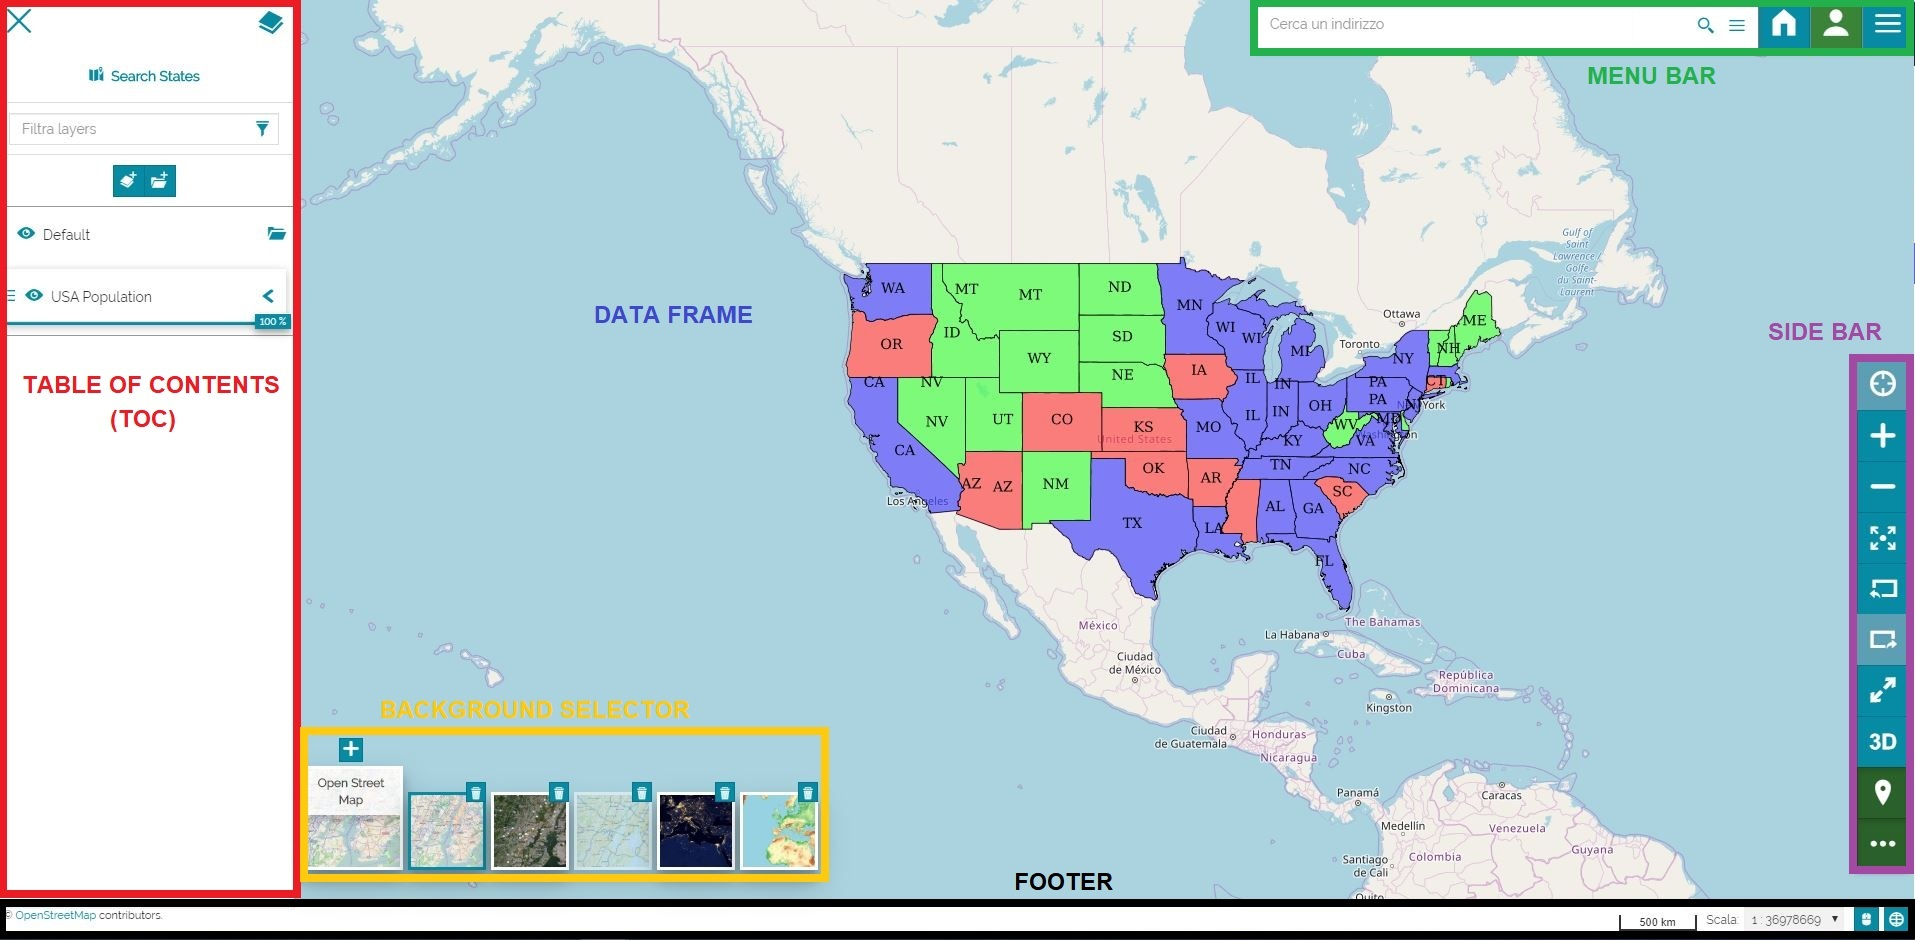
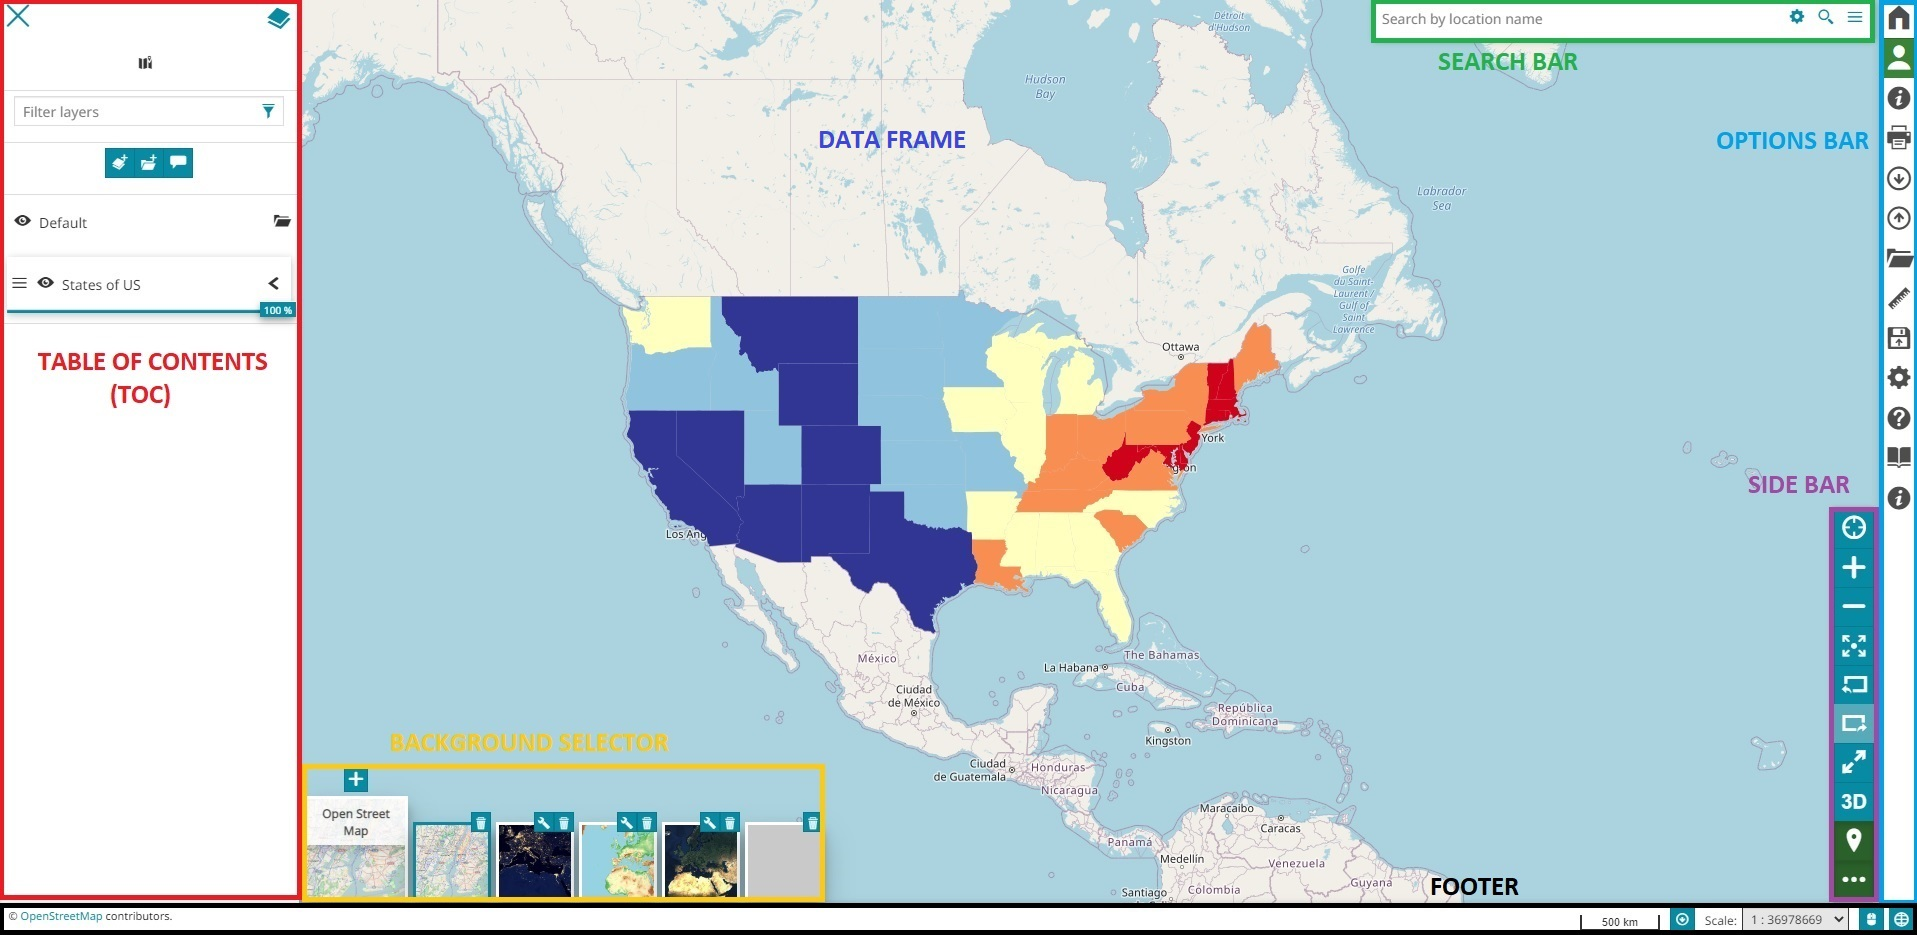
image-text-for-options-bar

diff --git a/docs/user-guide/side-bar.md b/docs/user-guide/side-bar.md
@@ -49,7 +49,7 @@ The tool is active by default (the button is green). Therefore if the user click
 
 <img src="../img/side-bar/identify-tool.jpg" class="ms-docimage"/>
 
-The layers information are reported in plain text by default. It is possible to change the format by selecting the <img src="../img/button/setting_button.jpg" class="ms-docbutton"/> option in [Burger Menu](menu-bar.md#burger-menu) where the user can select, through the *Identify response format* menu, three different formats like: **TEXT**, **HTML** and **PROPERTIES**.
+The layers information are reported in plain text by default. It is possible to change the format by selecting the <img src="../img/button/settings2.jpg" class="ms-docbutton"/> button in [Options Bar](menu-bar.md#options-bar) where the user can select, through the *Identify response format* menu, three different formats like: **TEXT**, **HTML** and **PROPERTIES**.
 
 <img src="../img/side-bar/format-options.jpg" class="ms-docimage" style="max-width:400px;"/>
 
@@ -112,7 +112,7 @@ In order to have information about one layer only the user can select the layer 
 
 In [MapStore](https://mapstore.geosolutionsgroup.com/mapstore/#/) the user can set the Identify tool in floating mode (**Floating Identify tool**) instead of having the default one available through a click on the map. In that case an identify popup will appears on the map as soon as the user hover over a layer in the map.
 
-In order to activate the *Floating Identify Tool* the user can select the <img src="../img/button/setting_button.jpg" class="ms-docbutton"/> option in [Burger Menu](menu-bar.md#burger-menu) <img src="../img/button/burger.jpg" class="ms-docbutton" />. Here he can select the **Hover** option through the *Trigger event for Identify* dropdown menu.
+In order to activate the *Floating Identify Tool* the user can select the  <img src="../img/button/settings2.jpg" class="ms-docbutton"/> button in [Options Bar](menu-bar.md#options-bar). Here he can select the **Hover** option through the *Trigger event for Identify* dropdown menu.
 
 <img src="../img/side-bar/setting-hover.jpg" class="ms-docimage"/>
 

diff --git a/docs/user-guide/import.md b/docs/user-guide/import.md
@@ -1,7 +1,7 @@
 # Import Files
 **************
 
-In [MapStore](https://mapstore.geosolutionsgroup.com/mapstore/#/) it is possible to add map context files or vector files to a map. This operation can be performed by clicking on the *Burger menu* button <img src="../img/button/burger.jpg" class="ms-docbutton"/> from the [Menu Bar](menu-bar.md) and by selecting the <img src="../img/button/import.jpg" class="ms-docbutton"/> option. Following these steps the import screen appears:
+In [MapStore](https://mapstore.geosolutionsgroup.com/mapstore/#/) it is possible to add map context files or vector files to a map. This operation can be performed by clicking  <img src="../img/button/import2.jpg" class="ms-docbutton"/> from the [Options Bar](menu-bar.md#options-bar). Following these steps the import screen appears:
 
 <img src="../img/import/import-screen.jpg" class="ms-docimage" style="max-width:700px;"/>
 
@@ -16,7 +16,7 @@ Here the user, in order to import a file, can drag and drop it inside the import
 
 ## Export and Import map context files
 
-A map context is, for example, the file that an user download selecting the <img src="../img/button/export.jpg" class="ms-docbutton"/> option in [Burger Menu](menu-bar.md#burger-menu). Map contexts can be exported in two different format:
+A map context is, for example, the file that an user download selecting the <img src="../img/button/export2.jpg" class="ms-docbutton"/> button from the [Options Bar](menu-bar.md#options-bar). Map contexts can be exported in two different format:
 
 * The <img src="../img/button/mapstore_format_button.jpg" class="ms-docbutton"/> file, is an export in `json` format of the current map context state: current projections, coordinates, zoom, extent, layers present in the map, widgets and more (additional information can be found in the [Maps Configuration](../developer-guide/maps-configuration.md) section of the [Developer Guide](https://mapstore.readthedocs.io/en/latest/developer-guide/)).
 

diff --git a/docs/user-guide/catalog.md b/docs/user-guide/catalog.md
@@ -3,7 +3,7 @@
 The Catalog Service for the Web (CSW) is an [OGC Standard](https://www.ogc.org/standards) used to publish and search geospatial data and related metadata on the internet. It describes geospatial services such as Web Map Service (WMS) and Web Map Tile Service (WMTS).
 
 In [MapStore](https://mapstore.geosolutionsgroup.com/mapstore/#/) the Catalog offers the possibility to access WMS, WFS, CSW, WMTS and TMS Remote Services and to add the related layers to the map. By default, as soon as a user opens the Catalog, a CSW a WMS and a WMTS Demo Services are available, allowing to import layers from the GeoSolutions GeoServer.
-The user can access the Catalog with a click on the <img src="../img/button/catalog-option.jpg" class="ms-docbutton" style="max-height:25px;" /> option present in [Burger Menu](menu-bar.md#burger-menu) <img src="../img/button/burger.jpg" class="ms-docbutton" />. As soon as you open it, the first display is like the following:
+The user can access the Catalog with a click on the <img src="../img/button/catalog2.jpg" class="ms-docbutton" style="max-height:25px;" /> button from the [Options Bar](menu-bar.md#options-bar). As soon as you open it, the first display is like the following:
 
 <img src="../img/catalog/catalog_panel.jpg" class="ms-docimage"  style="max-width:500px;" />
 

diff --git a/docs/user-guide/print.md b/docs/user-guide/print.md
@@ -1,6 +1,6 @@
 # Printing a Map
 
-In [MapStore](https://mapstore.geosolutionsgroup.com/mapstore/#/) it is possible to print a map by selecting the <img src="../img/button/print.jpg" class="ms-docbutton"  style="max-height:20px;"/> option from [Burger Menu](menu-bar.md#burger-menu). The print process is composed by two main steps:
+In [MapStore](https://mapstore.geosolutionsgroup.com/mapstore/#/) it is possible to print a map by selecting the **Print** <img src="../img/button/print2.jpg" class="ms-docbutton"  style="max-height:20px;"/> button from [Options Bar](menu-bar.md#options-bar). The print process is composed by two main steps:
 
 * *Print Settings* definition
 
@@ -8,7 +8,7 @@ In [MapStore](https://mapstore.geosolutionsgroup.com/mapstore/#/) it is possible
 
 ## Print settings
 
-As soon as the <img src="../img/button/print.jpg" class="ms-docbutton"  style="max-height:20px;"/> option is chosen, the following window opens:
+As soon as the *Print* <img src="../img/button/print2.jpg" class="ms-docbutton"  style="max-height:20px;"/> button is chosen, the following window opens:
 
 <img src="../img/print/print-page.jpg" class="ms-docimage"/>
 

diff --git a/docs/user-guide/measure.md b/docs/user-guide/measure.md
@@ -1,7 +1,7 @@
 # Performing Measurements
 *************************
 
-The Measure tools in [MapStore](https://mapstore.geosolutionsgroup.com/mapstore/#/) allows the user to perform distance, area and bearing measurements on the map. It also provides some additional functionalities that are described in this section of the documentation. The tool is accessible from [Burger Menu](menu-bar.md#burger-menu) by selecting the <img src="../img/button/measure-icon.jpg" class="ms-docbutton" style="max-height:20px;"/> option that opens the following window:
+The Measure tools in [MapStore](https://mapstore.geosolutionsgroup.com/mapstore/#/) allows the user to perform distance, area and bearing measurements on the map. It also provides some additional functionalities that are described in this section of the documentation. The tool is accessible from [Options Bar](menu-bar.md#options-bar) by selecting the <img src="../img/button/measurament.jpg" class="ms-docbutton" style="max-height:20px;"/> button that opens the following window:
 
 <img src="../img/measure/measure.jpg" class="ms-docimage" style="max-width:600px;"/>
 

diff --git a/docs/user-guide/street-view.md b/docs/user-guide/street-view.md
@@ -1,7 +1,7 @@
 # Street View
 *******************
 
-The **Street View** tool allows the user to browse [Google Street View](https://www.google.com/streetview/) contents in MapStore. Through the <img src="../img/button/street-view-button.jpg" class="ms-docbutton"/> button available in the *Burger Menu* <img src="../img/button/burger.jpg" class="ms-docbutton" />, the tool can be activated so that it is possible to navigate the map with [Google Street View](https://www.google.com/streetview/). 
+The **Street View** tool allows the user to browse [Google Street View](https://www.google.com/streetview/) contents in MapStore. Through the <img src="../img/button/street-view-button.jpg" class="ms-docbutton"/> button available in the [Options Bar](menu-bar.md#options-bar), the tool can be activated so that it is possible to navigate the map with [Google Street View](https://www.google.com/streetview/). 
 
 <img src="../img/street-view/streetview-popup.jpg" class="ms-docimage" width="500px"/>
 

diff --git a/docs/user-guide/layer-settings.md b/docs/user-guide/layer-settings.md
@@ -295,7 +295,7 @@ In particular, the user can choose between:
 * **Template**
 
 !!!note
-    Without selecting any format here, the [Identify Tool](side-bar.md#identify-tool) will return the layers information with the format chosen in Map Settings (a [Burger Menu](menu-bar.md#burger-menu) option). Once a user specifies the information format in layers settings, instead, that format will take precedence over the map settings only for that specific layer.
+    Without selecting any format here, the [Identify Tool](side-bar.md#identify-tool) will return the layers information with the format chosen in Map Settings ( in the [Options Bar](menu-bar.md#options-bar)). Once a user specifies the information format in layers settings, instead, that format will take precedence over the map settings only for that specific layer.
 
 ### Text
 

diff --git a/docs/user-guide/exploring-maps.md b/docs/user-guide/exploring-maps.md
@@ -19,7 +19,7 @@ In particular:
 
 * The [Table of Contents (TOC)](toc.md) shows the layers and the layers groups on the map and allows to remove or edit them, and add some new ones
 
-* The [Menu Bar](menu-bar.md) includes the [Search bar](menu-bar.md#search-bar), the connection to the [Homepage](https://mapstore.geosolutionsgroup.com/mapstore/#/), the login window and the [Burger Menu](menu-bar.md#burger-menu), an important list of options that contains several functions and information
+* The [Menu Bar](menu-bar.md) includes the [Search Bar](menu-bar.md#search-bar) and the [Options Bar](menu-bar.md#options-bar), an important list of options that contains several functions and information
 
 * The [Sidebar](side-bar.md) that is mainly a navigation panel
 

diff --git a/docs/user-guide/filtering-layers.md b/docs/user-guide/filtering-layers.md
@@ -29,7 +29,7 @@ This filter is applicable from the **Filter layer** button <img src="../img/butt
 
 <img src="../img/filtering-layers/filtered_advanced_filtering.gif" class="ms-docimage"/>
 
-* Opening the map next time (you need to Save the map from [Burger Menu](menu-bar.md#burger-menu) after applying a filter)
+* Opening the map next time (you need to Save the map from [Options Bar](menu-bar.md#options-bar) after applying a filter)
 
 Once a *Layer filter* is set, it is possible to enable/disable it simply by clicking on the button that will appear near the layer name in [TOC](toc.md):
 
